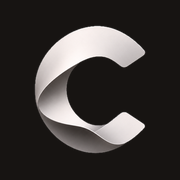
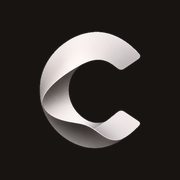
brand: more padding around the mark inside the tile
The in-page logo now sits at 54% of its tile instead of 72%, so the
ribbon reads as a contained mark rather than a cropped one. The favicon
keeps the fuller ratio - at 16px extra padding turns the mark into a
smudge. Cache bumped to v6.

Changed region(s): [[0.1944, 0.1389, 0.8056, 0.8611], [0.7222, 0.3333, 0.75, 0.3611]]

diff --git a/index.html b/index.html
@@ -5,10 +5,10 @@
 <meta name="viewport" content="width=device-width, initial-scale=1.0">
 <title>Canonn, The model that trusts your data</title>
 <meta name="description" content="Canonn R1 answers from the data you give it, grounded, verbatim, and 100× cheaper. Faithfulness trained into the weights, served through an OpenAI-compatible API.">
-<link rel="icon" type="image/png" sizes="32x32" href="assets/favicon-32.png?v=5">
-<link rel="icon" type="image/png" sizes="192x192" href="assets/favicon-192.png?v=5">
-<link rel="apple-touch-icon" href="assets/apple-touch-icon.png?v=5">
-<link rel="icon" href="/assets/favicon.ico?v=5" sizes="any">
+<link rel="icon" type="image/png" sizes="32x32" href="assets/favicon-32.png?v=6">
+<link rel="icon" type="image/png" sizes="192x192" href="assets/favicon-192.png?v=6">
+<link rel="apple-touch-icon" href="assets/apple-touch-icon.png?v=6">
+<link rel="icon" href="/assets/favicon.ico?v=6" sizes="any">
 <link rel="preconnect" href="https://fonts.googleapis.com">
 <link rel="preconnect" href="https://fonts.gstatic.com" crossorigin>
 <link href="https://fonts.googleapis.com/css2?family=Bricolage+Grotesque:opsz,wght@12..96,400..700&family=Schibsted+Grotesk:ital,wght@0,400..700;1,400&family=Instrument+Serif:ital@0;1&family=JetBrains+Mono:wght@400;500&display=swap" rel="stylesheet">

diff --git a/legal/index.html b/legal/index.html
@@ -5,10 +5,10 @@
 <meta name="viewport" content="width=device-width, initial-scale=1.0">
 <title>Canonn, Privacy Policy and Terms of Service</title>
 <meta name="description" content="How Canonn handles your data, and the terms of using the Canonn API. We do not train on customer prompts or completions.">
-<link rel="icon" type="image/png" sizes="32x32" href="/assets/favicon-32.png?v=5">
-<link rel="icon" type="image/png" sizes="192x192" href="/assets/favicon-192.png?v=5">
-<link rel="apple-touch-icon" href="/assets/apple-touch-icon.png?v=5">
-<link rel="icon" href="/assets/favicon.ico?v=5" sizes="any">
+<link rel="icon" type="image/png" sizes="32x32" href="/assets/favicon-32.png?v=6">
+<link rel="icon" type="image/png" sizes="192x192" href="/assets/favicon-192.png?v=6">
+<link rel="apple-touch-icon" href="/assets/apple-touch-icon.png?v=6">
+<link rel="icon" href="/assets/favicon.ico?v=6" sizes="any">
 <link rel="preconnect" href="https://fonts.googleapis.com">
 <link href="https://fonts.googleapis.com/css2?family=Bricolage+Grotesque:opsz,wght@12..96,400..700&family=Schibsted+Grotesk:ital,wght@0,400..700;1,400&family=Instrument+Serif:ital@0;1&family=JetBrains+Mono:wght@400;500&display=swap" rel="stylesheet">
 <style>

diff --git a/docs/index.html b/docs/index.html
@@ -5,10 +5,10 @@
 <meta name="viewport" content="width=device-width, initial-scale=1.0">
 <title>Canonn API Reference</title>
 <meta name="description" content="Grounded answers from your own documents. OpenAI-compatible API, one model, four endpoints.">
-<link rel="icon" href="/assets/favicon.ico?v=5" sizes="any">
-<link rel="icon" type="image/png" sizes="32x32" href="/assets/favicon-32.png?v=5">
-<link rel="icon" type="image/png" sizes="192x192" href="/assets/favicon-192.png?v=5">
-<link rel="apple-touch-icon" href="/assets/apple-touch-icon.png?v=5">
+<link rel="icon" href="/assets/favicon.ico?v=6" sizes="any">
+<link rel="icon" type="image/png" sizes="32x32" href="/assets/favicon-32.png?v=6">
+<link rel="icon" type="image/png" sizes="192x192" href="/assets/favicon-192.png?v=6">
+<link rel="apple-touch-icon" href="/assets/apple-touch-icon.png?v=6">
 <link rel="preconnect" href="https://fonts.googleapis.com">
 <link href="https://fonts.googleapis.com/css2?family=Bricolage+Grotesque:opsz,wght@12..96,400..700&family=Schibsted+Grotesk:ital,wght@0,400..700;1,400&family=Instrument+Serif:ital@0;1&family=JetBrains+Mono:wght@400;500&display=swap" rel="stylesheet">
 <style>

diff --git a/benchmark/index.html b/benchmark/index.html
@@ -4,10 +4,10 @@
 <meta charset="UTF-8">
 <meta name="viewport" content="width=device-width, initial-scale=1.0">
 <title>Canonn R1, Full Benchmark Report</title>
-<link rel="icon" type="image/png" sizes="32x32" href="/assets/favicon-32.png?v=5">
-<link rel="icon" type="image/png" sizes="192x192" href="/assets/favicon-192.png?v=5">
-<link rel="apple-touch-icon" href="/assets/apple-touch-icon.png?v=5">
-<link rel="icon" href="/assets/favicon.ico?v=5" sizes="any">
+<link rel="icon" type="image/png" sizes="32x32" href="/assets/favicon-32.png?v=6">
+<link rel="icon" type="image/png" sizes="192x192" href="/assets/favicon-192.png?v=6">
+<link rel="apple-touch-icon" href="/assets/apple-touch-icon.png?v=6">
+<link rel="icon" href="/assets/favicon.ico?v=6" sizes="any">
 <link rel="preconnect" href="https://fonts.googleapis.com">
 <link href="https://fonts.googleapis.com/css2?family=Bricolage+Grotesque:opsz,wght@12..96,400..700&family=Schibsted+Grotesk:ital,wght@0,400..700;1,400&family=Instrument+Serif:ital@0;1&family=JetBrains+Mono:wght@400;500&display=swap" rel="stylesheet">
 <style>

diff --git a/dash-src/index.html b/dash-src/index.html
@@ -2,10 +2,10 @@
 <html lang="en">
   <head>
     <meta charset="UTF-8" />
-    <link rel="icon" href="/assets/favicon.ico?v=5" sizes="any" />
-    <link rel="icon" type="image/png" sizes="32x32" href="/assets/favicon-32.png?v=5" />
-    <link rel="icon" type="image/png" sizes="192x192" href="/assets/favicon-192.png?v=5" />
-    <link rel="apple-touch-icon" href="/assets/apple-touch-icon.png?v=5" />
+    <link rel="icon" href="/assets/favicon.ico?v=6" sizes="any" />
+    <link rel="icon" type="image/png" sizes="32x32" href="/assets/favicon-32.png?v=6" />
+    <link rel="icon" type="image/png" sizes="192x192" href="/assets/favicon-192.png?v=6" />
+    <link rel="apple-touch-icon" href="/assets/apple-touch-icon.png?v=6" />
     <meta name="viewport" content="width=device-width, initial-scale=1.0" />
     <title>Canonn Dashboard</title>
     <link rel="preconnect" href="https://fonts.googleapis.com" />

diff --git a/dashboard/index.html b/dashboard/index.html
@@ -2,10 +2,10 @@
 <html lang="en">
   <head>
     <meta charset="UTF-8" />
-    <link rel="icon" href="/assets/favicon.ico?v=5" sizes="any" />
-    <link rel="icon" type="image/png" sizes="32x32" href="/assets/favicon-32.png?v=5" />
-    <link rel="icon" type="image/png" sizes="192x192" href="/assets/favicon-192.png?v=5" />
-    <link rel="apple-touch-icon" href="/assets/apple-touch-icon.png?v=5" />
+    <link rel="icon" href="/assets/favicon.ico?v=6" sizes="any" />
+    <link rel="icon" type="image/png" sizes="32x32" href="/assets/favicon-32.png?v=6" />
+    <link rel="icon" type="image/png" sizes="192x192" href="/assets/favicon-192.png?v=6" />
+    <link rel="apple-touch-icon" href="/assets/apple-touch-icon.png?v=6" />
     <meta name="viewport" content="width=device-width, initial-scale=1.0" />
     <title>Canonn Dashboard</title>
     <link rel="preconnect" href="https://fonts.googleapis.com" />
